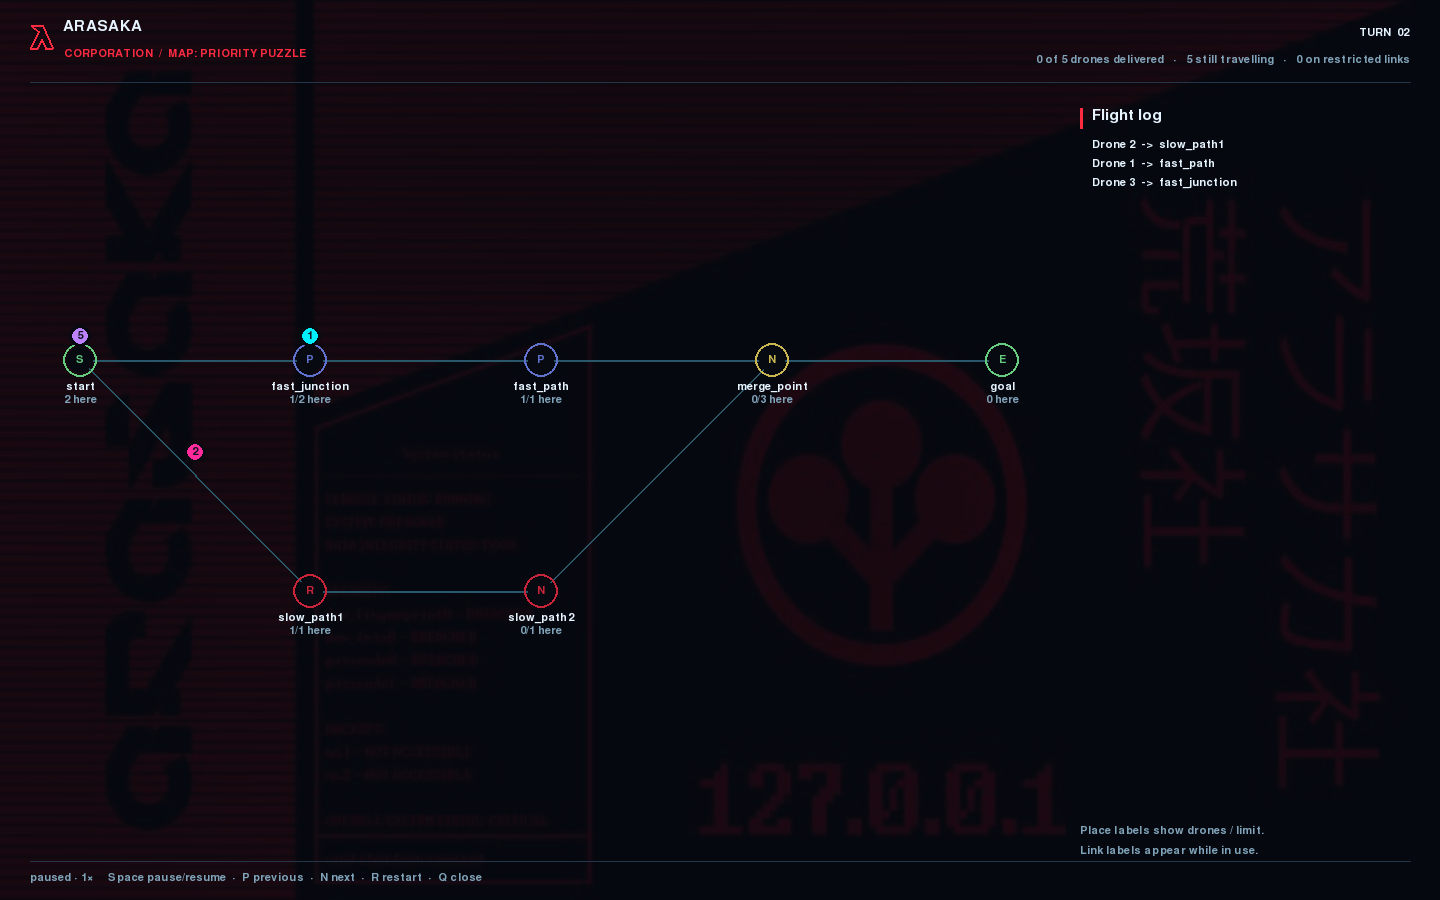
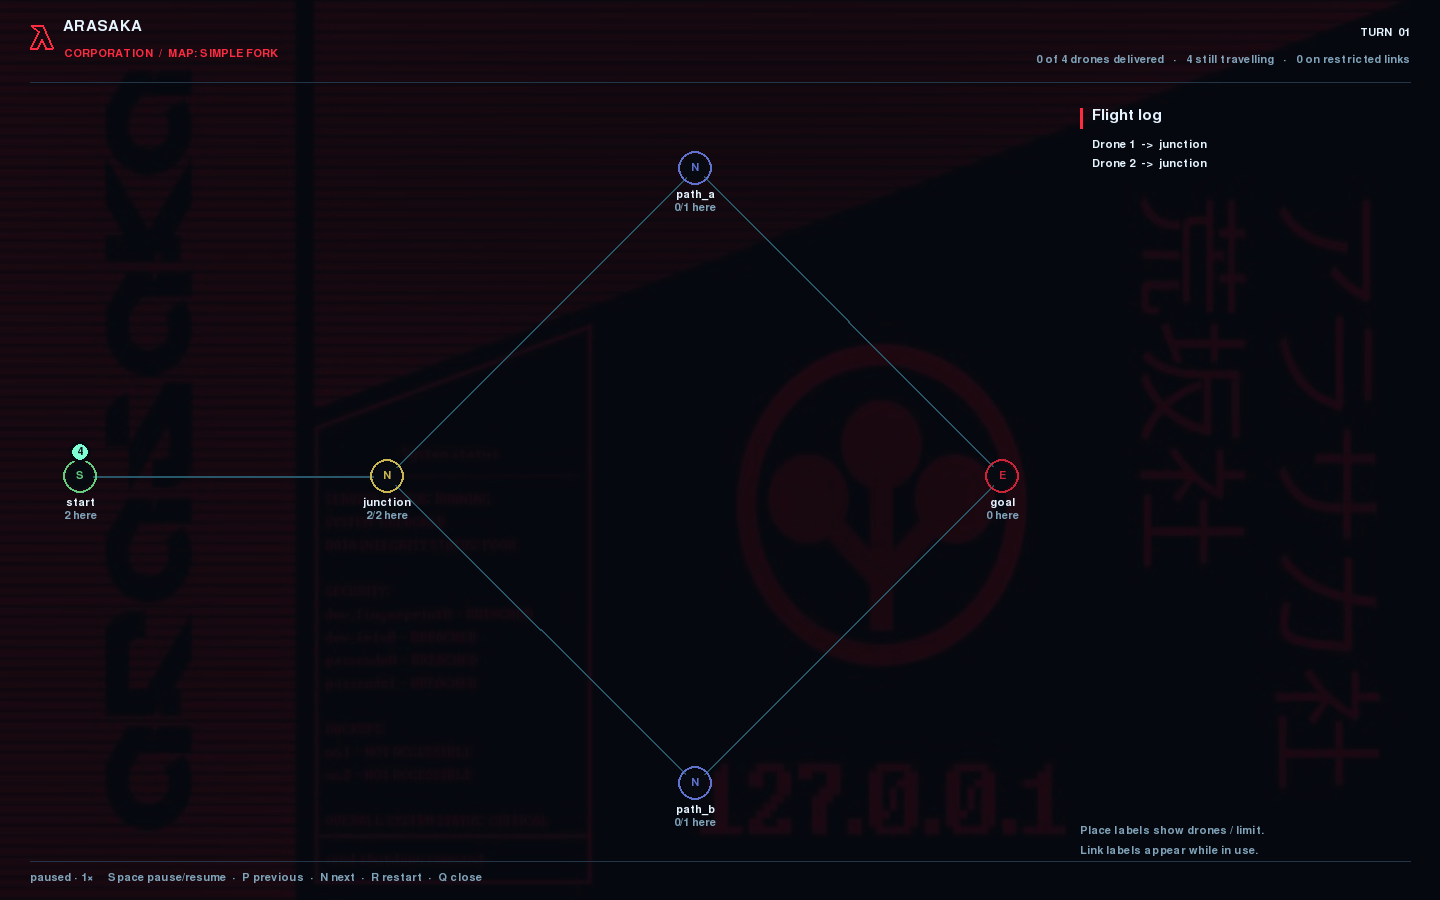
fix: README images

diff --git a/scripts/capture_screenshots.py b/scripts/capture_screenshots.py
@@ -11,7 +11,8 @@ os.environ.setdefault("SDL_VIDEODRIVER", "dummy")
 os.environ.setdefault("PYGAME_HIDE_SUPPORT_PROMPT", "1")
 
 ROOT = Path(__file__).resolve().parents[1]
-MAP_PATH = ROOT / "maps" / "medium" / "03_priority_puzzle.txt"
+EASY_MAP = ROOT / "maps" / "easy" / "02_simple_fork.txt"
+MEDIUM_MAP = ROOT / "maps" / "medium" / "03_priority_puzzle.txt"
 OUTPUT = ROOT / "assets" / "screenshots"
 
 
@@ -24,42 +25,46 @@ def main() -> None:
     from src.display.pygame_visualizer import HEIGHT, WIDTH, PygameVisualizer
     from src.parser.map_parser import MapParser
 
-    map_data = MapParser().parse_file(str(MAP_PATH))
-    engine = create_engine(map_data)
-    engine.run()
-    history = engine.state_history
-    transit_frame = next(
-        index for index, states in enumerate(history)
-        if any(state.transit_connection is not None for state in states)
-    )
-    busy_frame = max(
-        range(1, len(history) - 1),
+    easy_data = MapParser().parse_file(str(EASY_MAP))
+    easy_engine = create_engine(easy_data)
+    easy_engine.run()
+    easy_history = easy_engine.state_history
+    easy_frame = max(
+        range(1, len(easy_history)),
         key=lambda index: sum(
             state.current_zone is not None
             and not state.is_delivered
-            for state in history[index]
+            for state in easy_history[index]
         ),
     )
-    frames = [
-        ("01-fleet-in-motion.png", busy_frame),
-        ("02-restricted-transit.png", transit_frame),
-        ("03-arrival.png", len(history) - 1),
-    ]
-
+    medium_data = MapParser().parse_file(str(MEDIUM_MAP))
+    medium_engine = create_engine(medium_data)
+    medium_engine.run()
+    medium_history = medium_engine.state_history
+    transit_frame = next(
+        index for index, states in enumerate(medium_history)
+        if any(state.transit_connection is not None for state in states)
+    )
     pygame.init()
     screen = pygame.display.set_mode((WIDTH, HEIGHT))
     backdrop_path = ROOT / "assets" / "arasaka_wallpaper.jpg"
     backdrop = pygame.image.load(str(backdrop_path)).convert()
     backdrop = pygame.transform.smoothscale(backdrop, (WIDTH, HEIGHT))
     backdrop.set_alpha(42)
-    visualizer = PygameVisualizer(
-        map_data, engine, map_label="PRIORITY PUZZLE"
-    )
     font = pygame.font.Font(None, 22)
     small = pygame.font.Font(None, 16)
 
     OUTPUT.mkdir(parents=True, exist_ok=True)
-    for filename, frame_index in frames:
+    captures = [
+        ("01-fleet-in-motion.png", easy_data, easy_engine,
+         easy_history, easy_frame, "SIMPLE FORK"),
+        ("02-restricted-transit.png", medium_data, medium_engine,
+         medium_history, transit_frame, "PRIORITY PUZZLE"),
+        ("03-arrival.png", medium_data, medium_engine, medium_history,
+         len(medium_history) - 1, "PRIORITY PUZZLE"),
+    ]
+    for filename, map_data, engine, history, frame_index, label in captures:
+        visualizer = PygameVisualizer(map_data, engine, map_label=label)
         screen.fill((8, 10, 18))
         screen.blit(backdrop, (0, 0))
         visualizer._draw(

diff --git a/README.md b/README.md
@@ -16,9 +16,9 @@
 
 ## Capturas de la simulación
 
-Estas imágenes salen de fotogramas reales del motor al ejecutar `03_priority_puzzle.txt`: muestran la flota en movimiento, un dron cruzando una zona restringida y la llegada. La interfaz usa una paleta de neón y el entorno visual de Arasaka, inspirado en *Cyberpunk 2077*, uno de mis juegos favoritos.
+Estas imágenes salen de fotogramas reales del motor: la primera muestra la flota en `easy/02_simple_fork.txt` y las otras dos, el tránsito restringido y la llegada en `03_priority_puzzle.txt`. La interfaz usa una paleta de neón y el entorno visual de Arasaka, inspirado en *Cyberpunk 2077*, uno de mis juegos favoritos.
 
-![Flota de drones avanzando por el mapa Priority Puzzle](assets/screenshots/01-fleet-in-motion.png)
+![Flota de drones avanzando por el mapa Simple Fork](assets/screenshots/01-fleet-in-motion.png)
 
 ![Dron en tránsito por una conexión restringida](assets/screenshots/02-restricted-transit.png)
 
